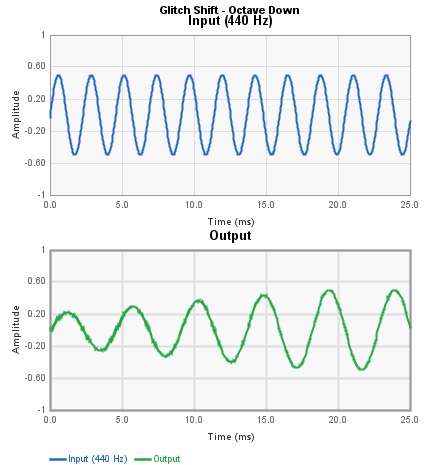
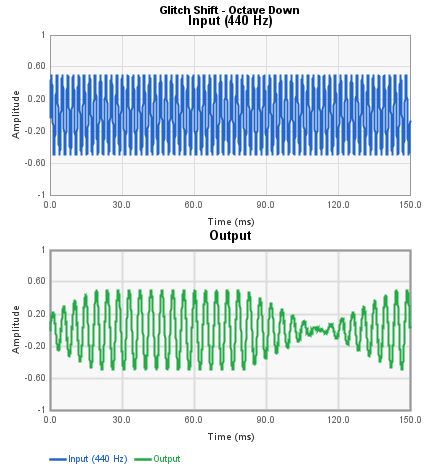
Update pitch glitch shift plots and sixtap image, refine PitchDocTest

diff --git a/src/test/java/com/holycityaudio/SpinCAD/PitchDocTest.java b/src/test/java/com/holycityaudio/SpinCAD/PitchDocTest.java
@@ -69,19 +69,21 @@ public class PitchDocTest {
             new pitchupdownCADBlock(100, 100),
             sineWav, null, "Pitch_Down_Out", "Pitch_Up_Out", docsDir);
 
-        // === Glitch Shift - Octave Up ===
+        // === Glitch Shift - Octave Up (longer window to show glitch) ===
         Glitch_shiftCADBlock glitchUp = new Glitch_shiftCADBlock(100, 100);
         glitchUp.setpitchSemitones(12);
         glitchUp.setpitchCents(0);
         plotStacked("glitch_shift-up", "Glitch Shift - Octave Up",
-            glitchUp, sineWav, null, "Glitch Out", docsDir);
+            glitchUp, sineWav, null, "Glitch Out",
+            (int)(0.150 * SAMPLE_RATE), docsDir);
 
-        // === Glitch Shift - Octave Down ===
+        // === Glitch Shift - Octave Down (longer window to show glitch) ===
         Glitch_shiftCADBlock glitchDown = new Glitch_shiftCADBlock(100, 100);
         glitchDown.setpitchSemitones(-12);
         glitchDown.setpitchCents(0);
         plotStacked("glitch_shift-down", "Glitch Shift - Octave Down",
-            glitchDown, sineWav, null, "Glitch Out", docsDir);
+            glitchDown, sineWav, null, "Glitch Out",
+            (int)(0.150 * SAMPLE_RATE), docsDir);
 
         // === Pitch Four ===
         plotStacked("pitch_four", "Pitch Four",
@@ -121,6 +123,15 @@ public class PitchDocTest {
             SpinCADBlock block, File inputWav,
             Map<String, Integer> controlInputs,
             String outputPin, File docsDir) throws Exception {
+        plotStacked(fileBase, title, block, inputWav, controlInputs,
+            outputPin, DISPLAY_SAMPLES, docsDir);
+    }
+
+    private void plotStacked(String fileBase, String title,
+            SpinCADBlock block, File inputWav,
+            Map<String, Integer> controlInputs,
+            String outputPin, int displaySamples,
+            File docsDir) throws Exception {
 
         short[] stereo;
         try {
@@ -141,9 +152,9 @@ public class PitchDocTest {
         short[] inputStereo = readWavSamples(inputWav);
         double[] input = toDouble(extractChannel(inputStereo, 0));
 
-        int start = Math.min(SKIP_SAMPLES, output.length - DISPLAY_SAMPLES - 1);
+        int start = Math.min(SKIP_SAMPLES, output.length - displaySamples - 1);
         if (start < 0) start = 0;
-        int end = Math.min(start + DISPLAY_SAMPLES,
+        int end = Math.min(start + displaySamples,
             Math.min(output.length, input.length));
 
         double[] outputSlice = Arrays.copyOfRange(output, start, end);
